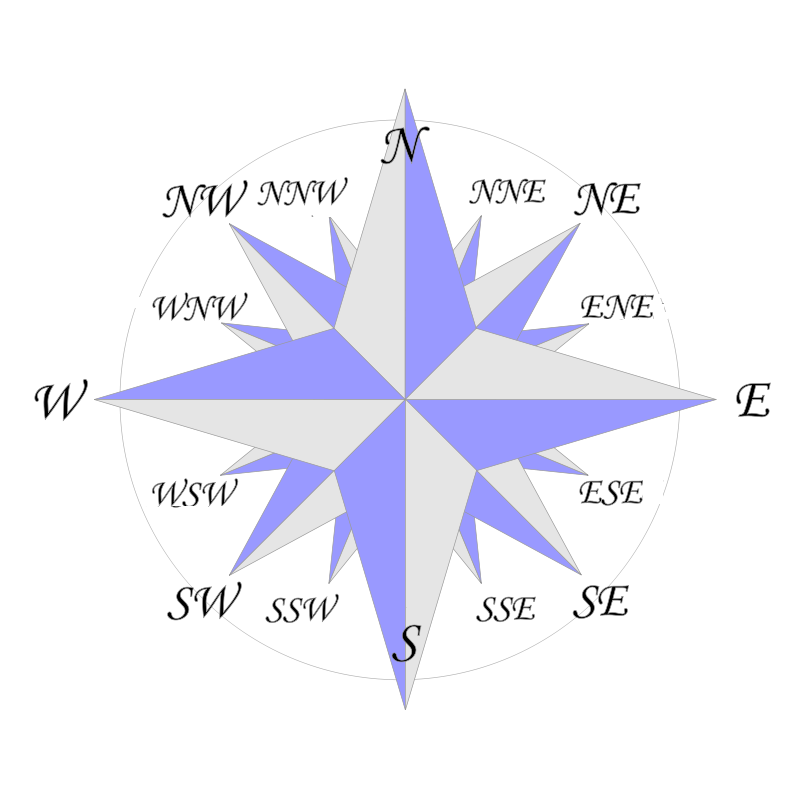
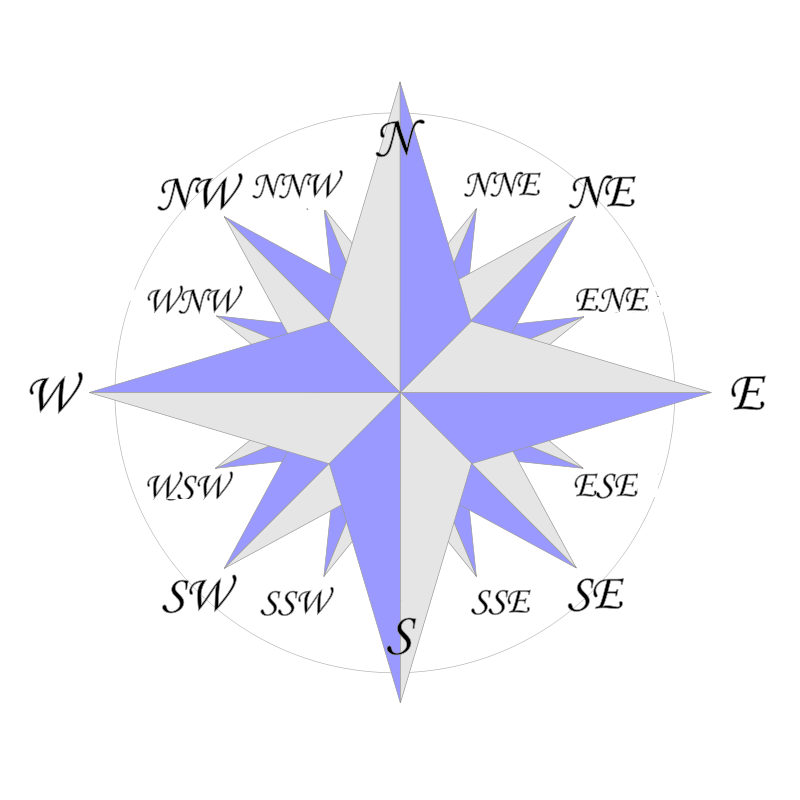
style

Changed region(s): [[0.0312, 0.0938, 0.9688, 0.875], [0.4375, 0.5312, 0.4688, 0.5625]]

diff --git a/style.css b/style.css
@@ -48,7 +48,6 @@
   height: 100vh;
   background: center no-repeat url("./img/800px-Compass-modified.png");
   background-size: 660px auto;
-  background-position: 48.5% 54%;
 }
 
 .field {
@@ -67,13 +66,27 @@
   white-space: nowrap;
 }
 
+.make-move {
+  width: 200px;
+  height: 40px;
+  margin: 0 auto;
+  display: flex;
+  justify-content: center;
+  align-items: center;
+}
+
+.start-new-game,
+.make-move {
+  background-color: lightgreen;
+  cursor: pointer;
+  border: none;
+  border-radius: 10px;
+  box-shadow: inset;
+}
+
 .field-tile {
   width: 80px;
   height: 80px;
-  /* small
-    width: 50px;
-    height: 50px;
-     */
   background-color: rgba(0, 255, 0, 0.1);
   border: 3px solid rgb(140, 140, 200);
 }
@@ -90,7 +103,7 @@
   border-right: none;
 }
 
-.field-tile:nth-child(n+20) {
+.field-tile:nth-child(n + 20) {
   border-bottom: none;
 }
 
@@ -99,13 +112,10 @@
 }
 
 .confirm-container {
-  position: absolute;
-  width: 100vw;
-  height: 100vh;
-  z-index: 3000;
+
 }
+
 .confirm-inner-container {
-  background-color: rgba(0, 255, 0, 0.5);
   width: 300px;
   height: 200px;
   display: flex;
@@ -118,6 +128,7 @@
   display: block;
   white-space: nowrap;
   width: min-content;
+  font-weight: bold;
 }
 
 .confirm-yes,
@@ -126,22 +137,23 @@
   height: min-content;
   padding: 5px;
   margin: 10px;
+  cursor: pointer;
+  border: none;
+  background-color: lightgreen;
+  font-weight: bold;
 }
 
 .occupied-tile-alert-container {
-  position: absolute;
-  display: flex;
-  z-index: 3000;
-  width: 100vw;
-  height: 100vh;
-  align-items: center;
-  justify-content: center;
-}
 
-.occupied-alert-tile {
 }
 
 .end-game-alert-container {
+
+}
+
+.occupied-tile-alert-container,
+.end-game-alert-container,
+.confirm-container{
   position: absolute;
   width: 100vw;
   height: 100vh;
@@ -152,17 +164,10 @@
   justify-content: center;
 }
 
-.end-game-alert-text {
+.occupied-alert-tile {
 }
 
-.make-move {
-  width: 200px;
-  height: 40px;
-  margin: 0 auto;
-  display: flex;
-  justify-content: center;
-  align-items: center;
-  background-color: lightgreen;
+.end-game-alert-text {
 }
 
 .recording {

diff --git a/index.html b/index.html
@@ -12,7 +12,7 @@
         <button class="start-new-game">New game</button>
         <div class="confirm-container hidden">
             <div class="confirm-inner-container">
-                <span class="comfirm-text">Make move here?</span>
+                <span class="confirm-text">Make move here?</span>
                 <button class="confirm-yes" id="yes">Yes</button>
                 <button class="confirm-no" id="no">No</button>
             </div>
